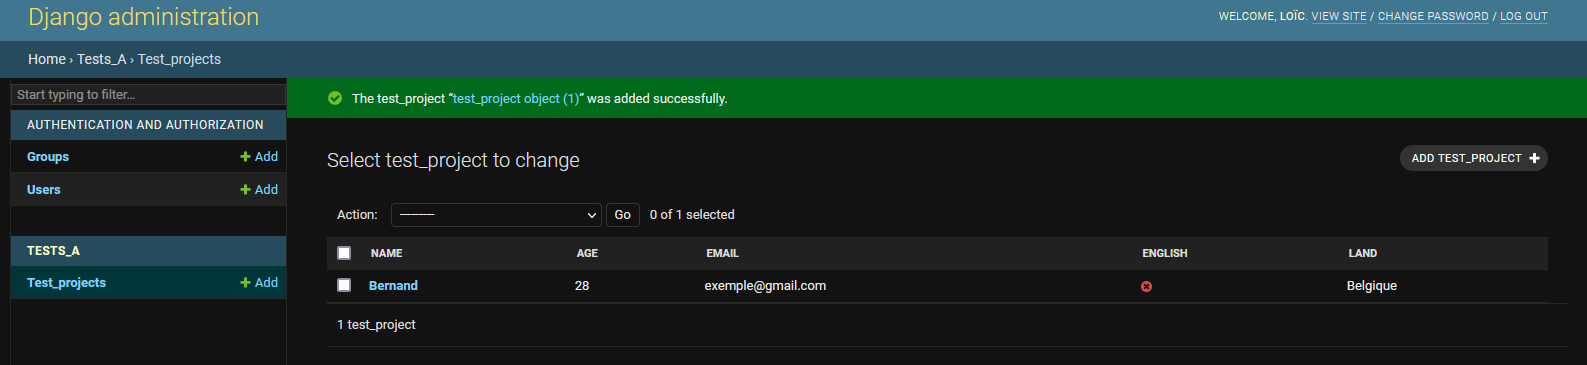
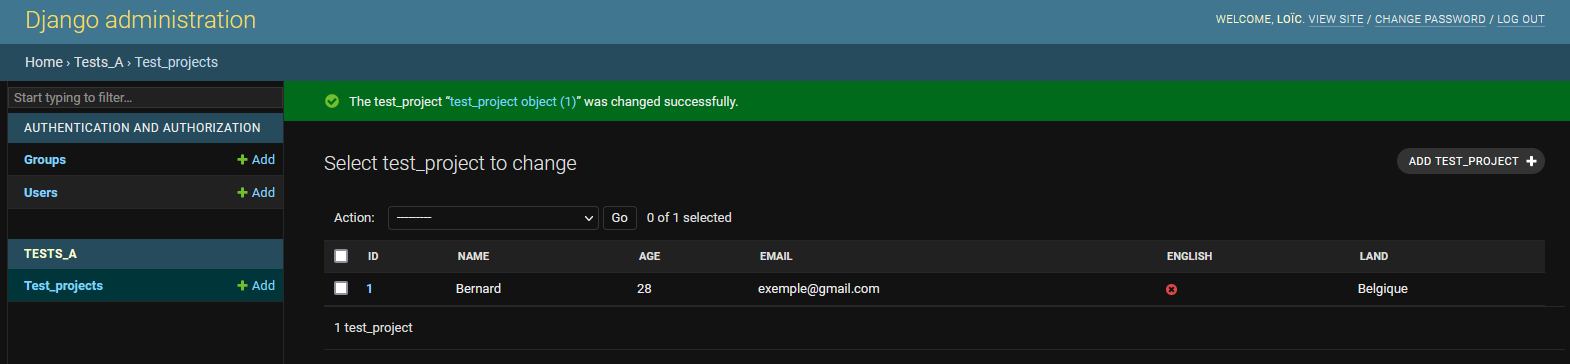
admin django

diff --git a/2.Framework_django/04.admin.md b/2.Framework_django/04.admin.md
@@ -49,6 +49,12 @@ Après avoir rempli le formulaire, on a un objet dans notre table!
 
 ![](../img/add_object.png)
 
+Nous avons réalisé une partie du CRUD, à savoir CREATE. 
+
+Nous pouvons également faire le DELETE en cochant l'objet à supprimer. 
+
+Pour l'UPDATE, là il vous faudra spécifier le champs "id" dans la propriété `list_display` de votre sous-classe. 
+
 # A vous de jouer! 
 
 - [ ] Ajoutez votre modèle dans l'admin
